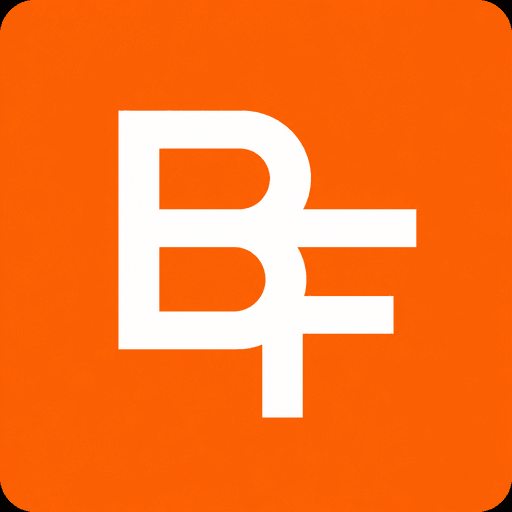
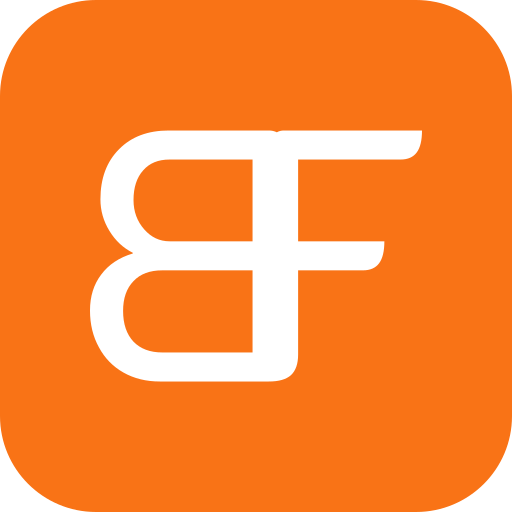
fix: restore BF brand assets and sync Sonotra/PAPREC copy
Replace botched favicon/logo with the authentic BF monogram, harden
seed upserts for experience renames, and bump SITE_VERSION to 0.14.2.

diff --git a/scripts/seed-portfolio.ts b/scripts/seed-portfolio.ts
@@ -220,14 +220,10 @@ async function upsertExperience(
   payload: Awaited<ReturnType<typeof getPayload>>,
   experience: (typeof portfolioFallback.experiences)[number],
 ) {
+  // Match by title so company renames (ex. PAPREC → Sonotra/PAPREC) update in place.
   const existing = await payload.find({
     collection: 'experiences',
-    where: {
-      and: [
-        { title: { equals: experience.title } },
-        { company: { equals: experience.company } },
-      ],
-    },
+    where: { title: { equals: experience.title } },
     limit: 1,
   })
 
@@ -352,18 +348,66 @@ async function seed() {
     await upsertExperience(payload, experience)
   }
 
-  // Retire les entrées agrégées remplacées par le détail « premières expériences »
-  const obsoleteCompanies = ['Telenet, DJM, Paritel, Berner…', 'Logistique & événementiel']
+  // Retire les entrées agrégées / legacy remplacées par le fallback curaté
+  const obsoleteCompanies = [
+    'Telenet, DJM, Paritel, Berner…',
+    'Logistique & événementiel',
+    'PAPREC — La Rochelle',
+    'Transports Hautié',
+    'Sonotra / PAPREC La Rochelle — Groupe Hautier',
+  ]
   for (const company of obsoleteCompanies) {
     const obsolete = await payload.find({
       collection: 'experiences',
       where: { company: { equals: company } },
-      limit: 10,
+      limit: 20,
     })
     for (const doc of obsolete.docs) {
       await payload.delete({ collection: 'experiences', id: doc.id })
       console.log(`Removed obsolete experience: ${doc.title} @ ${company}`)
     }
+  }
+
+  // Titres legacy hors canon (ex. « Assistant logistique » seul → fusion Sonotra/PAPREC)
+  const obsoleteTitles = ['Assistant logistique']
+  for (const title of obsoleteTitles) {
+    const obsolete = await payload.find({
+      collection: 'experiences',
+      where: { title: { equals: title } },
+      limit: 10,
+    })
+    for (const doc of obsolete.docs) {
+      await payload.delete({ collection: 'experiences', id: doc.id })
+      console.log(`Removed obsolete experience title: ${title}`)
+    }
+  }
+
+  // Sécurité : toute expérience Sonotra/PAPREC encore taguée « Groupe Hautier »
+  const mislabeled = await payload.find({
+    collection: 'experiences',
+    where: {
+      and: [
+        { company: { contains: 'Groupe Hautier' } },
+        {
+          or: [{ company: { contains: 'Sonotra' } }, { company: { contains: 'PAPREC' } }],
+        },
+      ],
+    },
+    limit: 20,
+  })
+  for (const doc of mislabeled.docs) {
+    await payload.update({
+      collection: 'experiences',
+      id: doc.id,
+      data: {
+        company: 'Sonotra / PAPREC La Rochelle',
+        description:
+          typeof doc.description === 'string'
+            ? doc.description.replace(/\s*\(?Groupe Hautier\)?/g, '').replace(/\s{2,}/g, ' ').trim()
+            : doc.description,
+      },
+    })
+    console.log(`Stripped Groupe Hautier from: ${doc.title}`)
   }
 
   console.log('Syncing qualifications…')

diff --git a/src/lib/site-version.ts b/src/lib/site-version.ts
@@ -2,4 +2,4 @@
  * Version affichée dans le footer — incrémenter à chaque livraison notable.
  * Format semver : MAJEUR.MINEUR.PATCH
  */
-export const SITE_VERSION = '0.14.1'
+export const SITE_VERSION = '0.14.2'
